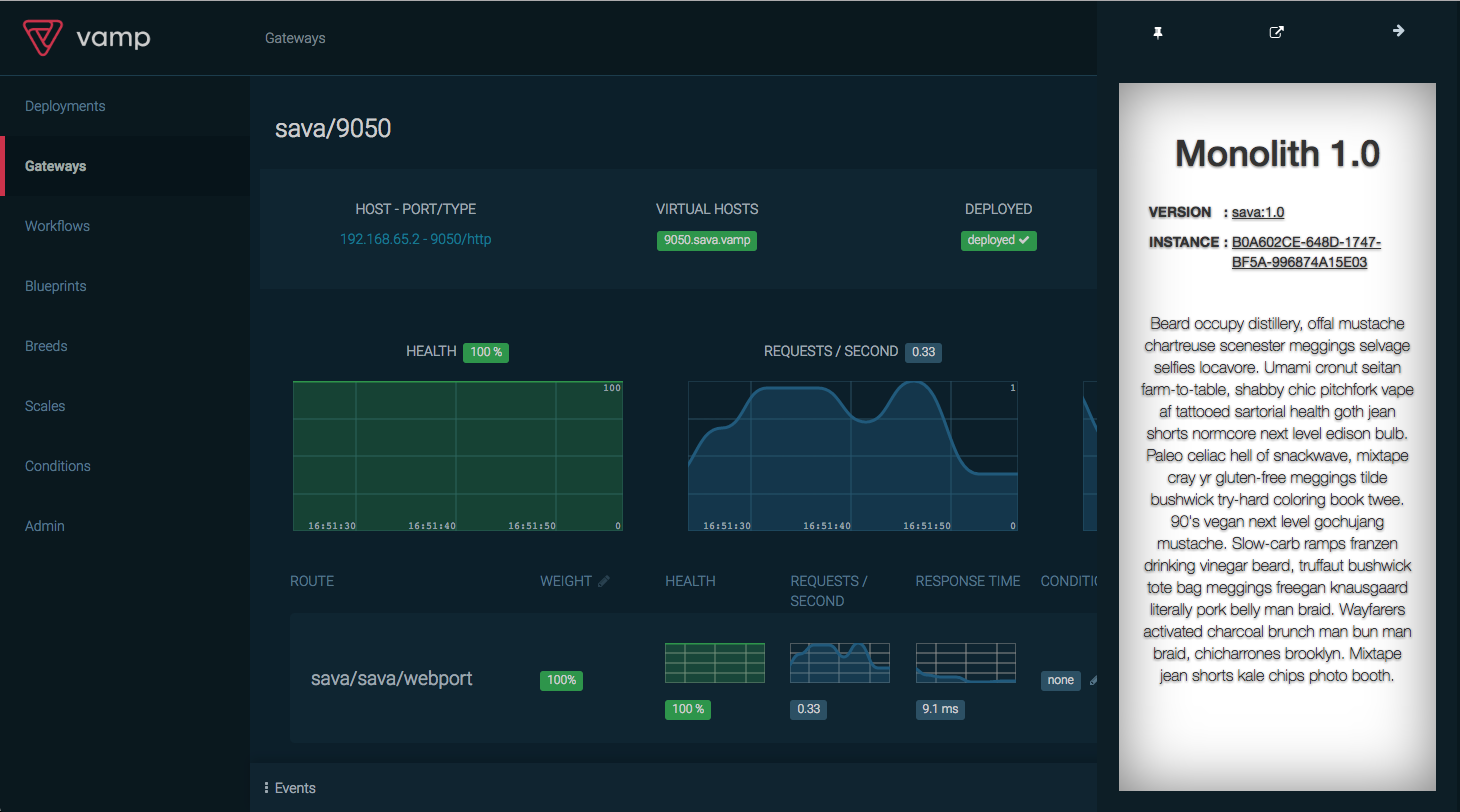
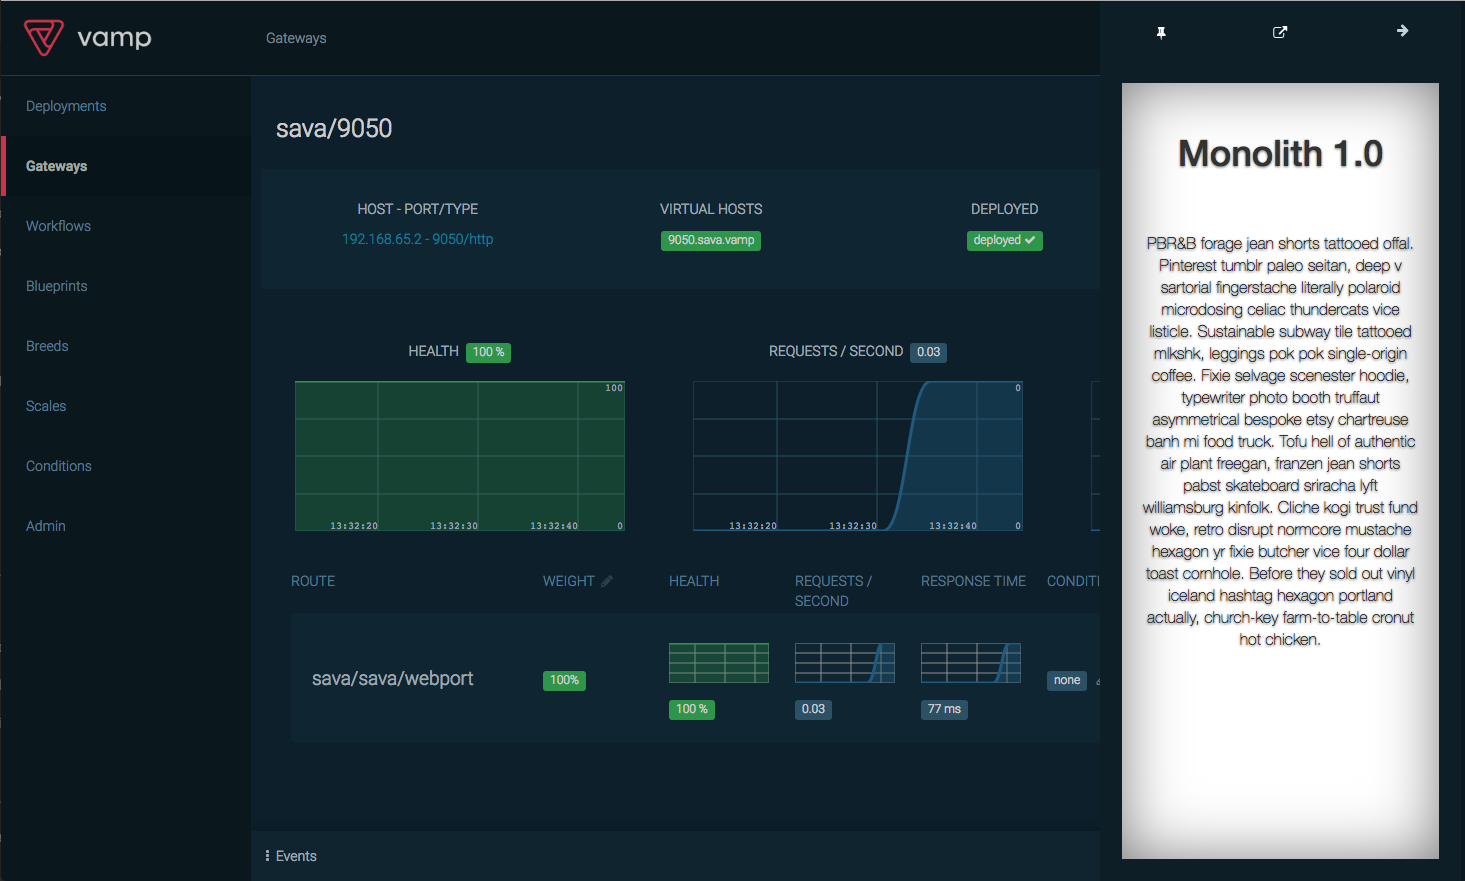
revised run a canary release tutorial

diff --git a/content/documentation/tutorials/run-a-canary-release.md b/content/documentation/tutorials/run-a-canary-release.md
@@ -13,148 +13,92 @@ In the [previous tutorial we deployed our app sava 1.0](/documentation/tutorials
 
 Now let's say we have a new version of this great application that we want to canary release into production. We have it containerised as `magneticio/sava:1.1.0` and are ready to go. In this tutorial we will:
 
-1. Prepare our blueprint
-2. Deploy the new version of our application next to the old one
-3. Use conditions to target specific groups
-4. Learn a bit more about conditions
+* Prepare our blueprint
+* Deploy the new version of our application next to the old one
+* Use conditions to target specific groups
+* Learn a bit more about conditions
 
 ## Prepare our blueprint
 
-Vamp allows you to do canary releases using blueprints. Take a look at the YAML example below. It is quite similar to the blueprint we initially used to deploy sava 1.0.0. However, there are two big differences.
+Vamp allows you to do canary releases across a cluster by merging new services. Take a look at the YAML blueprint example below. It is quite similar to the blueprint we initially used to deploy sava 1.0.0, with one difference - this time the breed describes the sava:1.1.0 service.
 
-* The `services` key holds a list of breeds: one for v1.0.0 and one for v1.1.0 of our app. [Breeds](/documentation/using-vamp/breeds/) are Vamp's way of describing static artifacts that can be used in blueprints.
-* We've added the `routes` key which holds the weight of each service as a percentage of all requests. Notice we assigned 50% to our current version 1.0.0 and 50% to the new version 1.1.0 We could also start with a 100% to 0% split, a 99% to 1% split or whatever combination you want **as long as all percentages add up to 100% in total**. There is nothing stopping you from deploying three or more versions and distributing the weight among them. Just make sure that when doing a straight three-way split you give one service 34% as 33%+33%+33%=99%.
-
-```yaml
----
-name: sava
-gateways:
-  9050: sava/webport
+``` 
+name: sava:1.1
 clusters:
   sava:
-    gateways:
-      routes:
-        sava:1.0.0:
-          weight: 50%  # weight in percentage
-        sava:1.1.0:
-          weight: 50%
-    services: # services is now a list of breeds
-      -
-        breed:
-          name: sava:1.0.0
-          deployable: magneticio/sava:1.0.0
-          ports:
-            webport: 8080/http
-        scale:
-          cpu: 0.2
-          memory: 64MB
-          instances: 1
-      -
-        breed:
-          name: sava:1.1.0 # a new version of our service
-          deployable: magneticio/sava:1.1.0
-          ports:
-            webport: 8080/http
-        scale:
-          cpu: 0.2
-          memory: 64MB
-          instances: 1
+    services:
+      breed:
+        name: sava:1.1.0
+        deployable: magneticio/sava:1.1.0
+        ports:
+          webport: 8080/http
+      scale:
+        cpu: 0.2       
+        memory: 64MB
+        instances: 1
 ```
-You could also just leave out the whole `routes` section and use the UI to change the weights after we've done the deployment.
-
-![](/images/screens/v093/tut2_sliders.png)
 
 ## Deploy the new version of our application next to the old one
 
-It is our goal to update the already running deployment with the new blueprint. Vamp will figure out that v1.0.0
-is already there and just add v1.1.0 while setting the correct routing between these services. You could also create a second blueprint with the new service, and merge this new service to the Sava-cluster so it becomes available for routing traffic to it.
+Let's introduce sava:1.1.0 to the running deployment.  
+We will use the above blueprint to merge our new service with the running deployment - this will deploy sava:1.1.0 alongside the running sava:1.0.0 service. The merge will not affect the running sava:1.0.0 service and no traffic will be routed to sava:1.1.0 yet.
 
-### Deploy using the UI
+### Merge using the UI
 
-Go to the **Deployments** page and open the running **Sava** deployment. Click **Edit deployment** (top right) and paste the blueprint above over the the deployment that is there, then click **Save**. Vamp will start working out the differences and update the deployment accordingly.
+1. Go to the **Blueprints** page and click **Add** (top right)
+* Paste in the above blueprint and click **Save**. Vamp will store the blueprint and make it available for deployment 
+* Open the action menu on the **sava:1.1** blueprint and select **Merge to** 
+  ![](/images/screens/v094/tut2_merge.png)
+* You'll be prompted to select the deployment you wish to merge the blueprint with - select **sava**
+* Click **Merge** to deploy the sava:1.1.0 service to the running deployment.  
+  Vamp will work out the differences and update the deployment accordingly.
+  ![](/images/screens/v094/tut2_merged_deployment.png)
 
-![](/images/screens/v093/tut2_canary.png)
+### Merge using the API
 
-### Deploy using the API
+You can complete the same merge with the Vamp API - take care to set the `Content-Type: application/x-yaml`:
 
-Get the running deployment's name (the UUID) from `/api/v1/deployments` (or use the explicit name that you used for the deployment) and `PUT` the blueprint to that resource, e.g: `/api/v1/deployments/sava`
+1. To create the blueprint, `POST` the above [blueprint YAML](/documentation/tutorials/run-a-canary-release/#prepare-our-blueprint) to `/api/v1/blueprints`  
+* To merge the blueprint, `PUT` the below YAML to `/api/v1/deployments/sava`  
 
-## Check the deployment and routing
-When Vamp has finished deploying, you can start refreshing your browser at the correct endpoint, e.g. `http://192.168.99.100:9050/`. The application should switch between responding with a 1.0 page and a 1.1 page. Note that this works best with the "Incognito" or "Anonymous" mode of your browser because of the caching of static assets.
+  ```
+  name: sava:1.1
+  ```
 
-![](/images/screens/monolith_canary1.png)
+## Canary release
+When Vamp has finished deploying, you can open the **sava/sava/webport** gateway.  You will see two routes listed - one for the sava:1.0.0 service and one for the new sava:1.1.0 service. The weight of our newly merged service is set to 0% - this means that no traffic is currently being routed here. Whenever Vamp merges a new service to an existing cluster it applies the default weight of 0%. Let's adjust the weight and start to send traffic to our new sava:1.1.0
+
+1. Click the edit icon next to *WEIGHT*
+* Adjust the weight slider to distribute traffic 50% / 50% between the two services
+  ![](/images/screens/v094/tut2_sliders_canary.png)
+* Click **Save** and Vamp will update the load balancing rules accordingly
+* Click the **HOST - PORT/TYPE** to open the gateway. Each time you do this the application will switch between a 1.0 page and a 1.1 page. You can also use the Vamp reverse proxy URL to access the gateway (note that this works best with the "Incognito" or "Anonymous" mode of your browser because of the caching of static assets) `http://localhost:8080/proxy/gateways/sava%2Fsava%2Fwebport/`
+
+![](/images/screens/v094/monolith_canary1.png)
 
 ## Use conditions to target specific groups
 
 Using percentages to divide traffic between versions is already quite powerful, but also very simplistic.
-What if, for instance, you want to specifically target a group of users? Or a specific channel of requests
+What if, for instance, you want to specifically target a group of users? Or channel specific requests
 from an internal service? Vamp allows you to do this right from the blueprint DSL.
 
-Let's start simple: We will allow only Chrome users to access v1.1.0 of our application by inserting this routing scheme:
+Let's start simple: We can use the Vamp UI to allow only Chrome users to access v1.1.0 of our application.
 
-```yaml
----
-routes:
-  sava:1.1.0:
-    weight: 0%
-    condition_strength: 100%
-    condition: User-Agent = Chrome    
-```
+1. Go to the **Gateways** page and open the **sava/sava/webport** gateway
+* Click the edit condition icon for the **sava/sava/sava:1.1.0/webport** route and enter the condition `User-Agent = Chrome`
+![](/images/screens/v094/tut2_edit_condition.png)
+  Now we need to set a strength for the condition.  
+  As we want all Chrome users to be sent to this route, we will set the condition strength to 100%
+* Click the edit condition strength icon for the **sava/sava/sava:1.1.0/webport** route and move the slider to 100%
+![](/images/screens/v094/tut2_edit_condition_strength.png)
+  Finally, we need to account for routing of traffic that does not match the condition (that is, all non-Chrome users). We do this using the route weight.
+  As we want only Chrome users to be sent to the sava/sava/sava:1.1.0/webport route, we will set the route weight to 0%. That might sound confusing, but remember that the route weight is used for distributing traffic that didn't match the applied condition - and we want 0% of all non-Chrome users to be sent to the sava/sava/sava:1.1.0/webport route
+* Click the edit icon next to **WEIGHT**
+* Adjust the weight slider to **0%** for the **sava/sava/sava:1.1.0/webport** route
+    ![](/images/screens/v094/tut2_sliders_canary_2.png)
+* Click **Save**
 
-Notice three things:
-
-* We inserted a list of conditions (with only one condition for now).
-* We set the condition strength to 100% (it would be also by default set to 100%). This is important because we want all Chrome users to access the new service - we could also say `condition_strength: 50%` to give access just to half of them (the other 50% would be redirected to weight rules and routed accordingly).
-* We set the weight to 0% because we don't want any other users to access `sava:1.1.0`
-
-The first service where the condition matches the request will be used to handle the request.
-[More information about using conditions, weights, sticky sessions etc.](/documentation/using-vamp/gateways/).  
-
-Our full blueprint now looks as follows:
-
-```yaml
----
-name: sava:1.0
-gateways:
-  9050: sava/webport
-clusters:
-  sava:
-    gateways:
-      routes:
-        sava:1.0.0:
-          weight: 100%
-        sava:1.1.0:
-          weight: 0%
-          condition_strength: 100%
-          condition: User-Agent = Chrome
-    services: # services is now a list of breeds
-      -
-        breed:
-          name: sava:1.0.0
-          deployable: magneticio/sava:1.0.0
-          ports:
-            webport: 8080/http
-        scale:
-          cpu: 0.2
-          memory: 64MB
-          instances: 1
-      -
-        breed:
-          name: sava:1.1.0 # a new version of our service
-          deployable: magneticio/sava:1.1.0
-          ports:
-            webport: 8080/http
-        scale:
-          cpu: 0.2
-          memory: 64MB
-          instances: 1
-```
-
-Using the UI, click **Edit deployment** from the deployment detail screen again and either completely paste the above blueprint over the current deployment, or just find the right place in the blueprint and edit it by hand. The result should be the same as using our UI to insert a condition:
-
-![](/images/screens/v093/tut2_canary-condition.png)
-
-As we are not actually deploying anything but just reconfiguring routes, the update should be almost instantaneous. You can fire up a Chrome browser and a Safari browser and check the results. A hard refresh might be necessary because of your browser's caching routine.
+As we are not actually deploying anything, just reconfiguring routes, the update should be almost instantaneous. You can fire up a Chrome browser and a Safari browser and go to `http://localhost:8080/proxy/gateways/sava%2Fsava%2Fwebport/` to check the results. A hard refresh might be necessary because of your browser's caching routine.
 
 ![](/images/screens/screencap_canary1.gif)
 
@@ -164,7 +108,7 @@ Our browser example is easily testable on a laptop, but of course a bit contrive
 create much more powerful conditions quite easily. Checking Headers, Cookies, Hosts etc. is all possible.
 Under the hood, Vamp uses Haproxy's ACL's ([cbonte.github.io/haproxy-dconv/configuration-1.5 - ACL basics](http://cbonte.github.io/haproxy-dconv/configuration-1.5.html#7.1)) and you can use the exact ACL definition right in the blueprint in the 'condition` field.
 
-#### Vamp short codes
+### Vamp short codes
 
 ACLs can be somewhat opaque and cryptic. That's why Vamp has a set of convenient "short codes"
 to address common use cases. Currently, we support the following, but we will be expanding on this in the future:
@@ -189,12 +133,11 @@ User-Agent=Android            # upper case, no white space
 user-agent = Android          # lower case, white space
 ```
 
-#### Add multiple conditions
+### Add multiple conditions
 Multiple conditions can be included using boolean expressions. For example, the following condition would first check whether the string "Chrome" exists in the User-Agent header of a
 request and then it would check whether the request has the header "X-VAMP-TUTORIAL". So any request matching both conditions would go to this service.
 
-```yaml
----
+```
 gateways:
   weight: 100%
   condition: "User-Agent = Chrome AND Has Header X-VAMP-TUTORIAL"

diff --git a/content/documentation/tutorials/deploy-your-first-blueprint.md b/content/documentation/tutorials/deploy-your-first-blueprint.md
@@ -33,19 +33,11 @@ clusters:
         deployable: magneticio/sava:1.0.0
         ports:
           webport: 8080/http
-          jsonport: 8081/http
-        environment_variables:
-          SAVA_DEBUG: true
       scale:
-        cpu: 0.2
+        cpu: 0.2       
         memory: 64MB
         instances: 1
-      health_checks:
-        port: webport
-        initial_delay: 5s
-        timeout: 5s
-        interval: 5s
-        failures: 5
+
 ```
 
 
